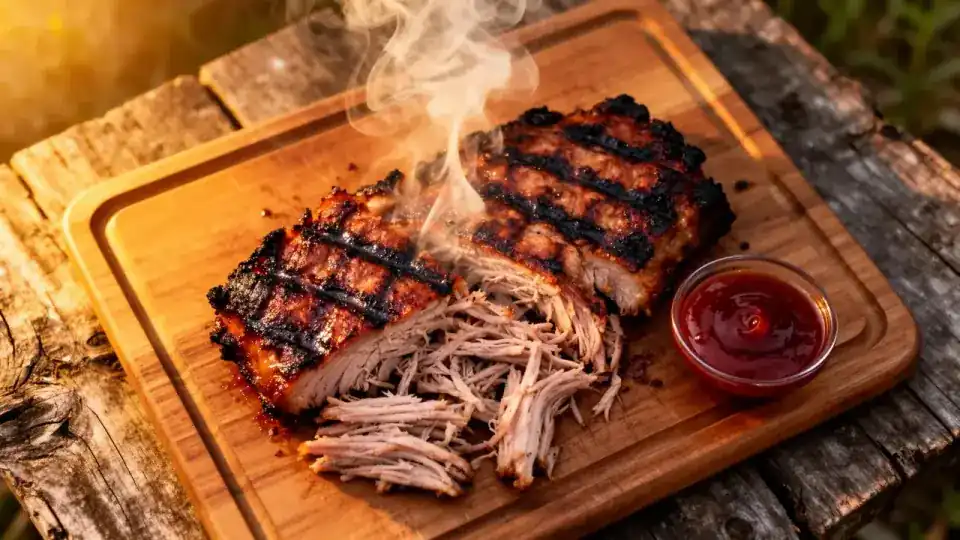
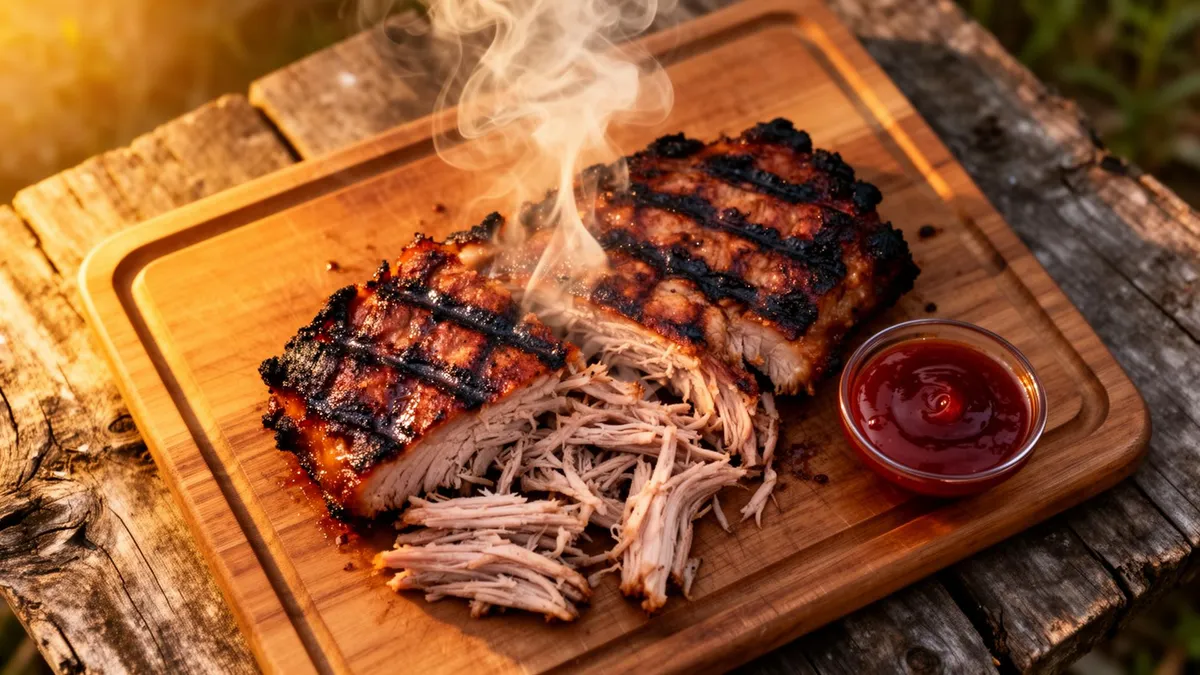
perf: hero image s retina podporou přes picture element (#33)
* feat: hero image s retina podporou přes picture element

* perf: hero image — 1x 1200px a 2x 1920px z originálu pro retina podporu

---------

diff --git a/src/app/(cs)/[slug]/page.tsx b/src/app/(cs)/[slug]/page.tsx
@@ -1,6 +1,5 @@
 import type { Metadata } from "next";
 import { notFound } from "next/navigation";
-import Image from "next/image";
 import { MDXContent } from "@content-collections/mdx/react";
 import { getAllPosts, getPostBySlug, getRelatedPosts } from "@/lib/content";
 import { siteConfig } from "@/lib/i18n";
@@ -8,6 +7,7 @@ import { ArticleHeader } from "@/components/article/ArticleHeader";
 import { RecipeMetaBox } from "@/components/article/RecipeMetaBox";
 import { AuthorBio } from "@/components/article/AuthorBio";
 import { AffiliateDisclosure } from "@/components/article/AffiliateDisclosure";
+import { HeroImage } from "@/components/article/HeroImage";
 import { RelatedArticles } from "@/components/article/RelatedArticles";
 import { NewsletterCTA } from "@/components/ui/NewsletterCTA";
 
@@ -89,12 +89,9 @@ export default async function ArticlePage({
       {/* Full-width hero image */}
       {post.image && (
         <div className="mb-14">
-          <Image
+          <HeroImage
             src={post.image}
             alt={post.title}
-            width={1600}
-            height={900}
-            priority
             className="w-full aspect-[4/3] md:aspect-video object-cover max-h-[600px]"
           />
         </div>

diff --git a/src/components/article/HeroImage.tsx b/src/components/article/HeroImage.tsx
@@ -1,0 +1,39 @@
+interface HeroImageProps {
+  src: string;
+  alt: string;
+  className?: string;
+}
+
+/** Derives the 2x variant path: /images/foo/hero.webp → /images/foo/hero@2x.webp */
+function get2xSrc(src: string): string {
+  return src.replace(/(\.[^.]+)$/, "@2x$1");
+}
+
+/**
+ * Hero image with retina support via <picture>.
+ * Looks for a @2x variant (e.g. hero@2x.webp) for retina displays.
+ * If the 2x file doesn't exist, the browser silently falls back to src.
+ */
+export function HeroImage({ src, alt, className }: HeroImageProps) {
+  const src2x = get2xSrc(src);
+
+  return (
+    <picture>
+      <source
+        srcSet={src2x}
+        media="(-webkit-min-device-pixel-ratio: 1.5), (min-resolution: 144dpi)"
+        type="image/webp"
+      />
+      {/* eslint-disable-next-line @next/next/no-img-element */}
+      <img
+        src={src}
+        alt={alt}
+        width={1200}
+        height={675}
+        fetchPriority="high"
+        decoding="async"
+        className={className}
+      />
+    </picture>
+  );
+}
